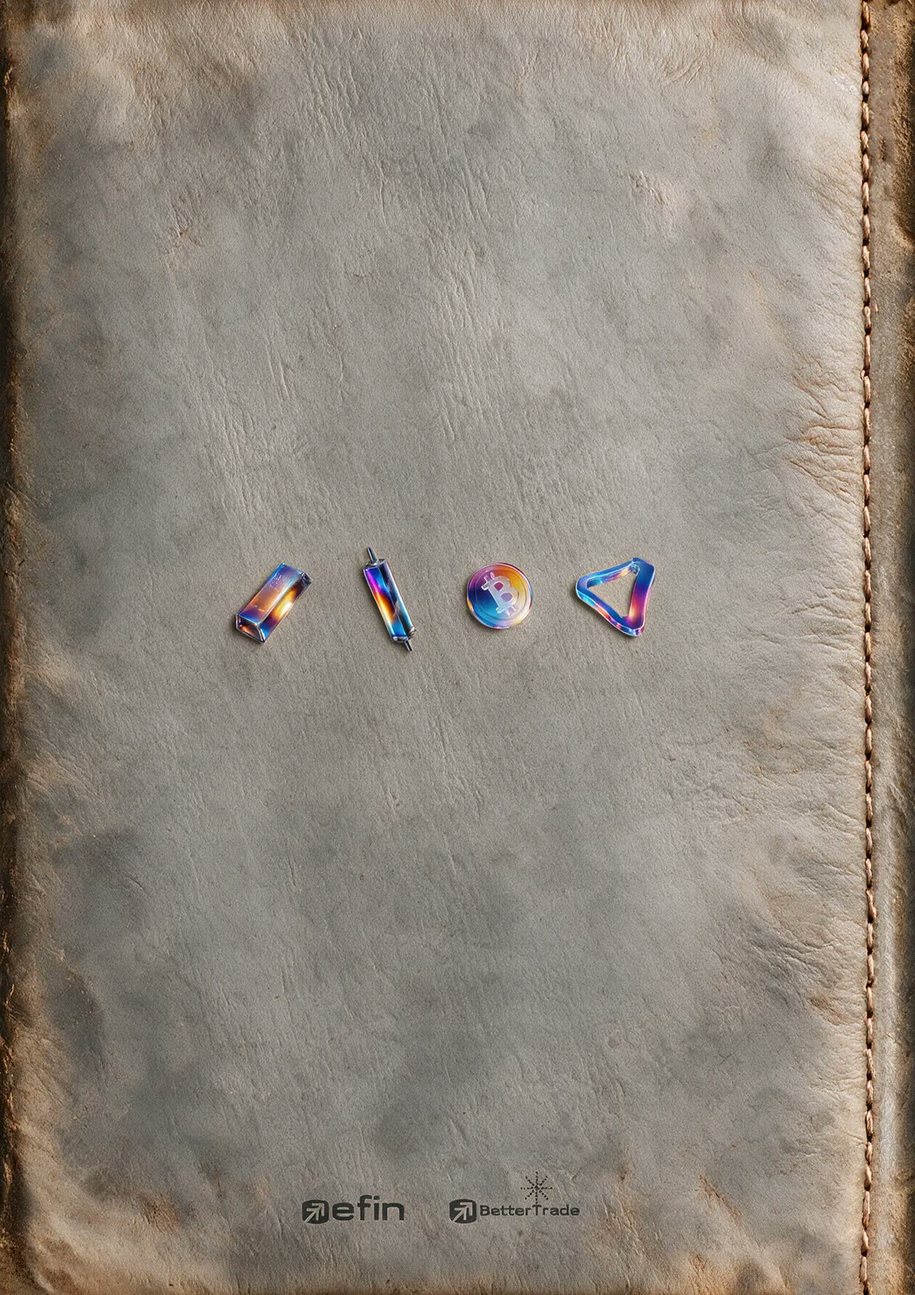
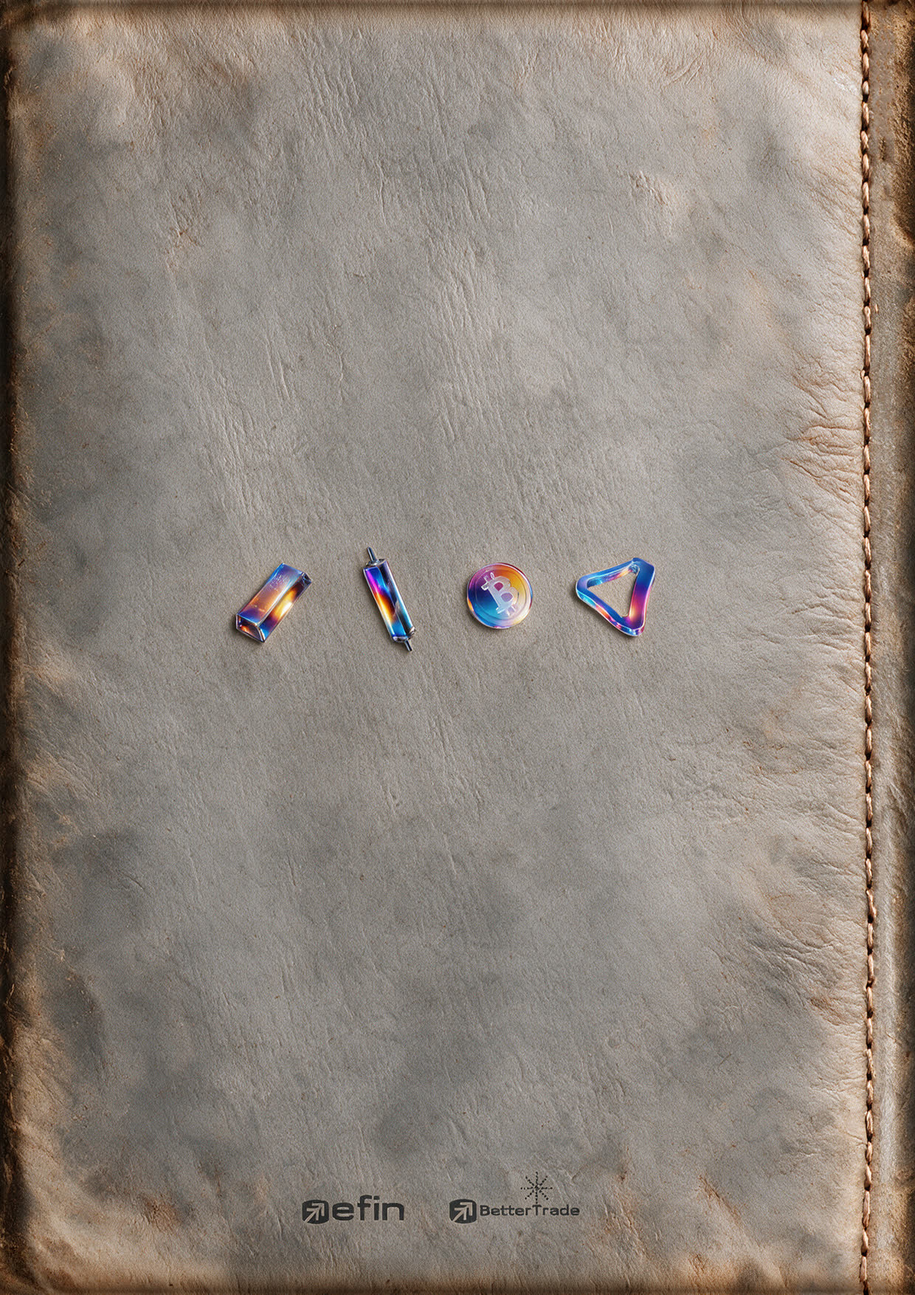
Ver.2: Noto Sans Thai as the UI face, new front / back covers, persona name descenders no longer clipped
- --font: FC Minimal replaced by 'Noto Sans Thai UI' (the variable file at size-adjust 80%, so the old sizes keep their look and line length); FC Minimal no longer loaded
- covers from ปกหน้า-หลัง/, scaled to 1240x1754 JPEG (~470 KB each)
- card sheet / opener silver Latin: padding under the clipped fill so g / p / y keep their tails; Thai name pulled back up

diff --git a/dna-quiz-flow.html b/dna-quiz-flow.html
@@ -12,12 +12,11 @@
 <meta name="viewport" content="width=794">
 <link rel="icon" href="assets/bt.png">
 <style>
-@font-face{font-family:'FC Minimal';src:url(assets/fc-minimal-100-500.ttf) format('truetype');font-weight:100 500;font-style:normal;font-display:swap;}
-@font-face{font-family:'FC Minimal';src:url(assets/fc-minimal-600-900.ttf) format('truetype');font-weight:600 900;font-style:normal;font-display:swap;}
 @font-face{font-family:'Baskervville';src:url(assets/baskervville-regular-sub.woff2) format('woff2');font-weight:400;font-style:normal;font-display:swap;} /* Regular, printable ASCII + dashes/quotes only (19 KB, OFL; from Font/Baskervville/static) */
 @font-face{font-family:'PSL Praewsuda Serif';src:url(assets/psl-praewsuda-serif-bold.otf) format('opentype');font-weight:700;font-style:normal;font-display:swap;} /* PSL Praewsuda Serif Pro Bold (Fonts PSL series/PSL-5 Pro/PSL273pro.otf): the parchment layouts' display Thai, 2026-10-22 */
 @font-face{font-family:'TH Sarabun New';src:url(assets/th-sarabun-new.ttf) format('truetype');font-weight:400;font-style:normal;font-display:swap;} /* TH Sarabun New (SIPA national font) for the card sheet's three outlook lines, 2026-10-22 */
 @font-face{font-family:'Noto Sans Thai';src:url(assets/noto-sans-thai.ttf) format('truetype');font-weight:100 900;font-stretch:62.5% 100%;font-style:normal;font-display:swap;} /* Noto Sans Thai, variable (Google Fonts, OFL) for the card sheet's Thai persona name, 2026-10-22 */
+@font-face{font-family:'Noto Sans Thai UI';src:url(assets/noto-sans-thai.ttf) format('truetype');font-weight:100 900;font-stretch:62.5% 100%;font-style:normal;font-display:swap;size-adjust:80%;} /* the UI face (--font) since 2026-10-22, in place of FC Minimal: Noto runs ~30% taller and ~36% wider, so 80% keeps the old sizes' look */
 @font-face{font-family:'Sarabun';src:url(assets/sarabun-400.ttf) format('truetype');font-weight:400;font-style:normal;font-display:swap;}
 @font-face{font-family:'Sarabun';src:url(assets/sarabun-500.ttf) format('truetype');font-weight:500;font-style:normal;font-display:swap;}
 @font-face{font-family:'Sarabun';src:url(assets/sarabun-700.ttf) format('truetype');font-weight:700;font-style:normal;font-display:swap;}
@@ -63,9 +62,9 @@
   --pbx-hero-card:320px;   /* 360 → 320 (2026-10-21): room for up to 3 lines of text above the frame without the sheet shrinking */
   /* spacing scale */
   --sp-glue:6px; --sp-list:8px; --sp-inline:12px; --sp-stack:16px; --sp-block:22px; --sp-section:20px;
-  /* type: FC Minimal for UI and headings (the embedded file covers Thai AND Latin, so headings never fall back to a system face); Sarabun, a
-     looped Thai text face, for long reading text */
-  --font:'FC Minimal','Noto Sans Thai','Thonburi','DB Helvethaica X',system-ui,-apple-system,'Segoe UI',sans-serif;
+  /* type: Noto Sans Thai UI (the variable file at 80%, so the sizes set for FC Minimal keep their look and line length; the file covers
+     Thai AND Latin, so headings never fall back to a system face) for UI and headings; Sarabun, a looped Thai text face, for long reading text */
+  --font:'Noto Sans Thai UI','Noto Sans Thai','Thonburi','DB Helvethaica X',system-ui,-apple-system,'Segoe UI',sans-serif;
   /* Latin lettering (reference: "CHAPTER / Three"): tracked capitals over a lower-case word, all in Baskervville Regular, for English words only; Thai never uses it */
   --font-serif:'Baskervville','Times New Roman',serif;
   --pbx-lock-h:88px;
@@ -124,7 +123,8 @@ body{font-family:var(--font);background:var(--paper);color:var(--ink);font-weigh
 .pbx .pbx-hero2{align-items:center;}
 .pbx-pill{display:inline-block;padding:4px 16px 5px;border-radius:999px;background:#3a3a3a;color:#fbf9f2;font-size:13px;font-weight:var(--w-body);line-height:17px;white-space:nowrap;}
 .pbx-pill.post{background:var(--ink);}
-.pbx-hero-en{margin-top:8px;font-family:var(--font-serif);font-weight:400;font-size:90px;line-height:1.02;white-space:nowrap;color:#3a352f;
+/* padding-bottom: the silver fill is clipped to the box, and a 1.02 line box ends mid-descender (g, p, y lost half their tails, 2026-10-22) */
+.pbx-hero-en{margin-top:8px;padding-bottom:.3em;margin-bottom:-.2em;font-family:var(--font-serif);font-weight:400;font-size:90px;line-height:1.02;white-space:nowrap;color:#3a352f;
   background:linear-gradient(100deg,#2b2621 0%,#45403a 28%,#a9a59e 47%,#d9d6cf 52%,#5d5852 66%,#2b2621 100%);-webkit-background-clip:text;background-clip:text;-webkit-text-fill-color:transparent;-webkit-print-color-adjust:exact;print-color-adjust:exact;}
 .pbx .pbx-hero.pbx-hero2 .pbx-feat-t{margin-top:6px;font-family:'Noto Sans Thai',var(--font);font-size:31px;font-weight:500;line-height:1.3;} /* Noto Sans Thai Medium per the layout's type list (weight and size matched to its ink and width) */
 .pbx-hero-art{display:block;width:auto;height:410px;max-width:470px;object-fit:contain;margin:40px 0 26px;} /* the supplied character cut-outs (transparent PNG → assets/art-*.webp, trimmed): 410px tall as in the layout (≤ 470 wide so the wide ones don't dominate), with its ~40px of air above and below */
@@ -144,7 +144,7 @@ body{font-family:var(--font);background:var(--paper);color:var(--ink);font-weigh
 .pbx-op-hd{max-width:415px;}
 .pbx-op-en{display:flex;align-items:center;gap:16px;font-family:var(--font-serif);font-weight:400;font-size:56px;line-height:1;white-space:nowrap;}
 .pbx-op-en i{font-style:normal;font-size:38px;color:var(--ink);line-height:1;transform:translateY(-2px);}
-.pbx-op-en span{background:linear-gradient(100deg,#2b2621 0%,#45403a 28%,#a9a59e 47%,#d9d6cf 52%,#5d5852 66%,#2b2621 100%);-webkit-background-clip:text;background-clip:text;-webkit-text-fill-color:transparent;-webkit-print-color-adjust:exact;print-color-adjust:exact;}
+.pbx-op-en span{padding-bottom:.3em;margin-bottom:-.3em;background:linear-gradient(100deg,#2b2621 0%,#45403a 28%,#a9a59e 47%,#d9d6cf 52%,#5d5852 66%,#2b2621 100%);-webkit-background-clip:text;background-clip:text;-webkit-text-fill-color:transparent;-webkit-print-color-adjust:exact;print-color-adjust:exact;}
 .pbx.parch .pbx-open2 .pbx-open-t{display:block;margin-top:10px;padding:0;font-family:'Noto Sans Thai',var(--font);font-size:38px;font-weight:500;line-height:1.3;border:0;text-wrap:balance;}
 .pbx.parch .pbx-open2 .pbx-open-t span{font-weight:inherit;}
 .pbx.parch .pbx-open2 .pbx-lede{margin-top:18px;}
@@ -529,7 +529,7 @@ body{font-family:var(--font);background:var(--paper);color:var(--ink);font-weigh
 .pbx .pbx-toc-t{margin:0 0 var(--sp-block);padding-bottom:var(--sp-inline);font-size:var(--pbx-fs-open);font-weight:var(--w-label);line-height:1.15;color:var(--ink);border-bottom:var(--rule-w) solid var(--rule);}
 .toc-list{flex:1 1 auto;min-height:0;display:flex;flex-direction:column;}
 /* parchment สารบัญ (2026-10-22, from the supplied layout, 1414px → 794): title centred in the display face, each chapter a four-point
-   star + its name in a 200px column, entries in FC Minimal 17px on a ~28px pitch, folios in Baskervville old-style figures flush right
+   star + its name in a 200px column, entries in the UI face (Noto Sans Thai UI) 17px on a ~28px pitch, folios in Baskervville old-style figures flush right
    at x 691; no rules between chapters; a faint hand-inked compass (centre 588, 598, its N / W / S letters 337px out, cut by the right edge) behind the list. No header hairlines (the title stands in for them). */
 .pb-page.pbx.pb-toc.parch{padding:62px 103px 34px 94px;}
 .parch .pbx-toc-t{margin:0 0 30px;padding:0;border:0;text-align:center;font-family:var(--font-display);font-size:83px;font-weight:700;line-height:1.05;letter-spacing:0;}
@@ -1674,6 +1674,6 @@ RESULT.revealed=RESULT.declared;RESULT.gap=0; // the PDF sample reads "สอด
   var done=false;function go(){if(done)return;done=true;render();}
   setTimeout(go,2500);
   if(!document.fonts||!document.fonts.load){go();return;}
-  Promise.all([document.fonts.load('500 16px "FC Minimal"'),document.fonts.load('700 16px "FC Minimal"'),document.fonts.load('500 16px "Sarabun"'),document.fonts.load('700 16px "Sarabun"'),document.fonts.load('400 20px "Baskervville"'),document.fonts.load('700 20px "PSL Praewsuda Serif"'),document.fonts.load('400 20px "TH Sarabun New"'),document.fonts.load('500 20px "Noto Sans Thai"')]).then(function(){return document.fonts.ready;}).then(go,go);
+  Promise.all([document.fonts.load('500 16px "Noto Sans Thai UI"'),document.fonts.load('700 16px "Noto Sans Thai UI"'),document.fonts.load('500 16px "Sarabun"'),document.fonts.load('700 16px "Sarabun"'),document.fonts.load('400 20px "Baskervville"'),document.fonts.load('700 20px "PSL Praewsuda Serif"'),document.fonts.load('400 20px "TH Sarabun New"'),document.fonts.load('500 20px "Noto Sans Thai"')]).then(function(){return document.fonts.ready;}).then(go,go);
 })();
 </script>
